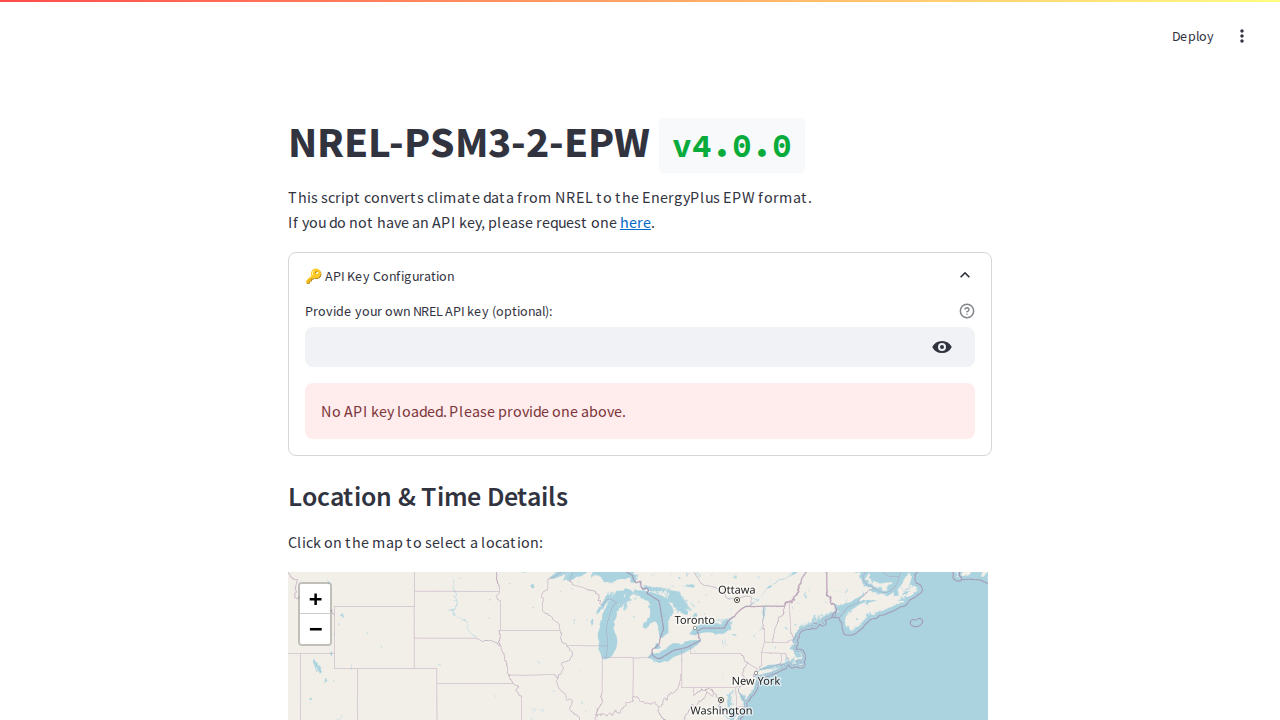
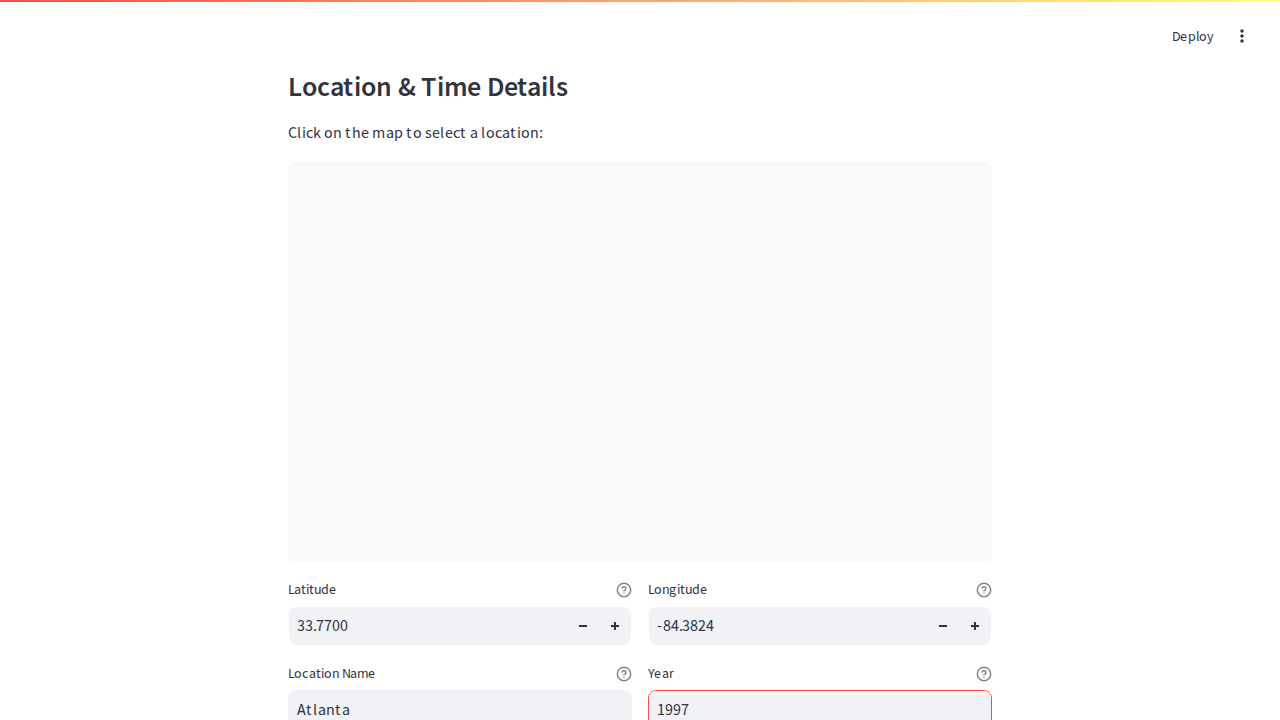
🎨 Palette: Add inline validation feedback for Year input

diff --git a/test_frontend.py b/test_frontend.py
@@ -1,15 +1,26 @@
-from playwright.sync_api import sync_playwright
+from playwright.sync_api import sync_playwright, expect
+import time
 
-
-def verify_frontend():
+def test_frontend():
     with sync_playwright() as p:
         browser = p.chromium.launch(headless=True)
         page = browser.new_page()
         page.goto("http://localhost:8501")
-        page.wait_for_timeout(5000)
+
+        # wait for app to load
+        page.wait_for_selector("text=NREL-PSM3-2-EPW")
+
+        # Find the Year input field and fill it with an invalid value
+        year_input = page.locator("input[aria-label='Year']")
+        year_input.fill("1997")
+        year_input.press("Enter")
+
+        # Wait a moment for Streamlit to rerender
+        time.sleep(2)
+
+        # Take a screenshot
         page.screenshot(path="verification.png")
         browser.close()
 
-
 if __name__ == "__main__":
-    verify_frontend()
+    test_frontend()

diff --git a/app/streamlit_app.py b/app/streamlit_app.py
@@ -252,6 +252,10 @@ def main():
             year_is_valid = False
             year_warning = "Year must be a numeric year (>=1998) or a TMY name like tmy or tmy-2024."
 
+    if not year_is_valid:
+        with col4:
+            st.error(year_warning, icon="⚠")
+
     if not api_key:
         button_help = "Please provide an API key above to enable this button"
     elif not year_is_valid:

diff --git a/run_test.py b/run_test.py
@@ -1,0 +1,9 @@
+import sys
+from unittest.mock import patch
+import streamlit.web.cli as stcli
+
+import app.streamlit_app
+
+if __name__ == '__main__':
+    sys.argv = ["streamlit", "run", "app/streamlit_app.py", "--server.port=8501", "--server.headless=true"]
+    sys.exit(stcli.main())

diff --git a/.Jules/palette.md b/.Jules/palette.md
@@ -18,3 +18,7 @@
 ## 2024-06-15 - Pairing Map Interactions with Toast Feedback
 **Learning:** Interactive widgets like maps (e.g., via `streamlit-folium`) update application state in the background upon interaction, but this state change is often invisible to the user until they scroll down to see updated input fields. This disconnect can cause confusion about whether the interaction was registered.
 **Action:** When capturing input from complex interactive components like maps, immediately present a brief `st.toast` notification confirming the action (e.g., displaying the reverse-geocoded location name). Use `st.session_state` to track interaction IDs to prevent duplicate toasts across unrelated application reruns.
+
+## 2024-06-18 - Inline Error Messages for Better Form Validation Feedback
+**Learning:** In Streamlit applications, relying solely on tooltips over disabled buttons to communicate form validation errors hides crucial context from the user until they attempt to interact with the disabled element.
+**Action:** Implement real-time inline validation feedback by evaluating input states *before* the submit button is rendered and displaying explicit error or warning messages directly adjacent to the relevant input fields using `st.error` or `st.warning`.
